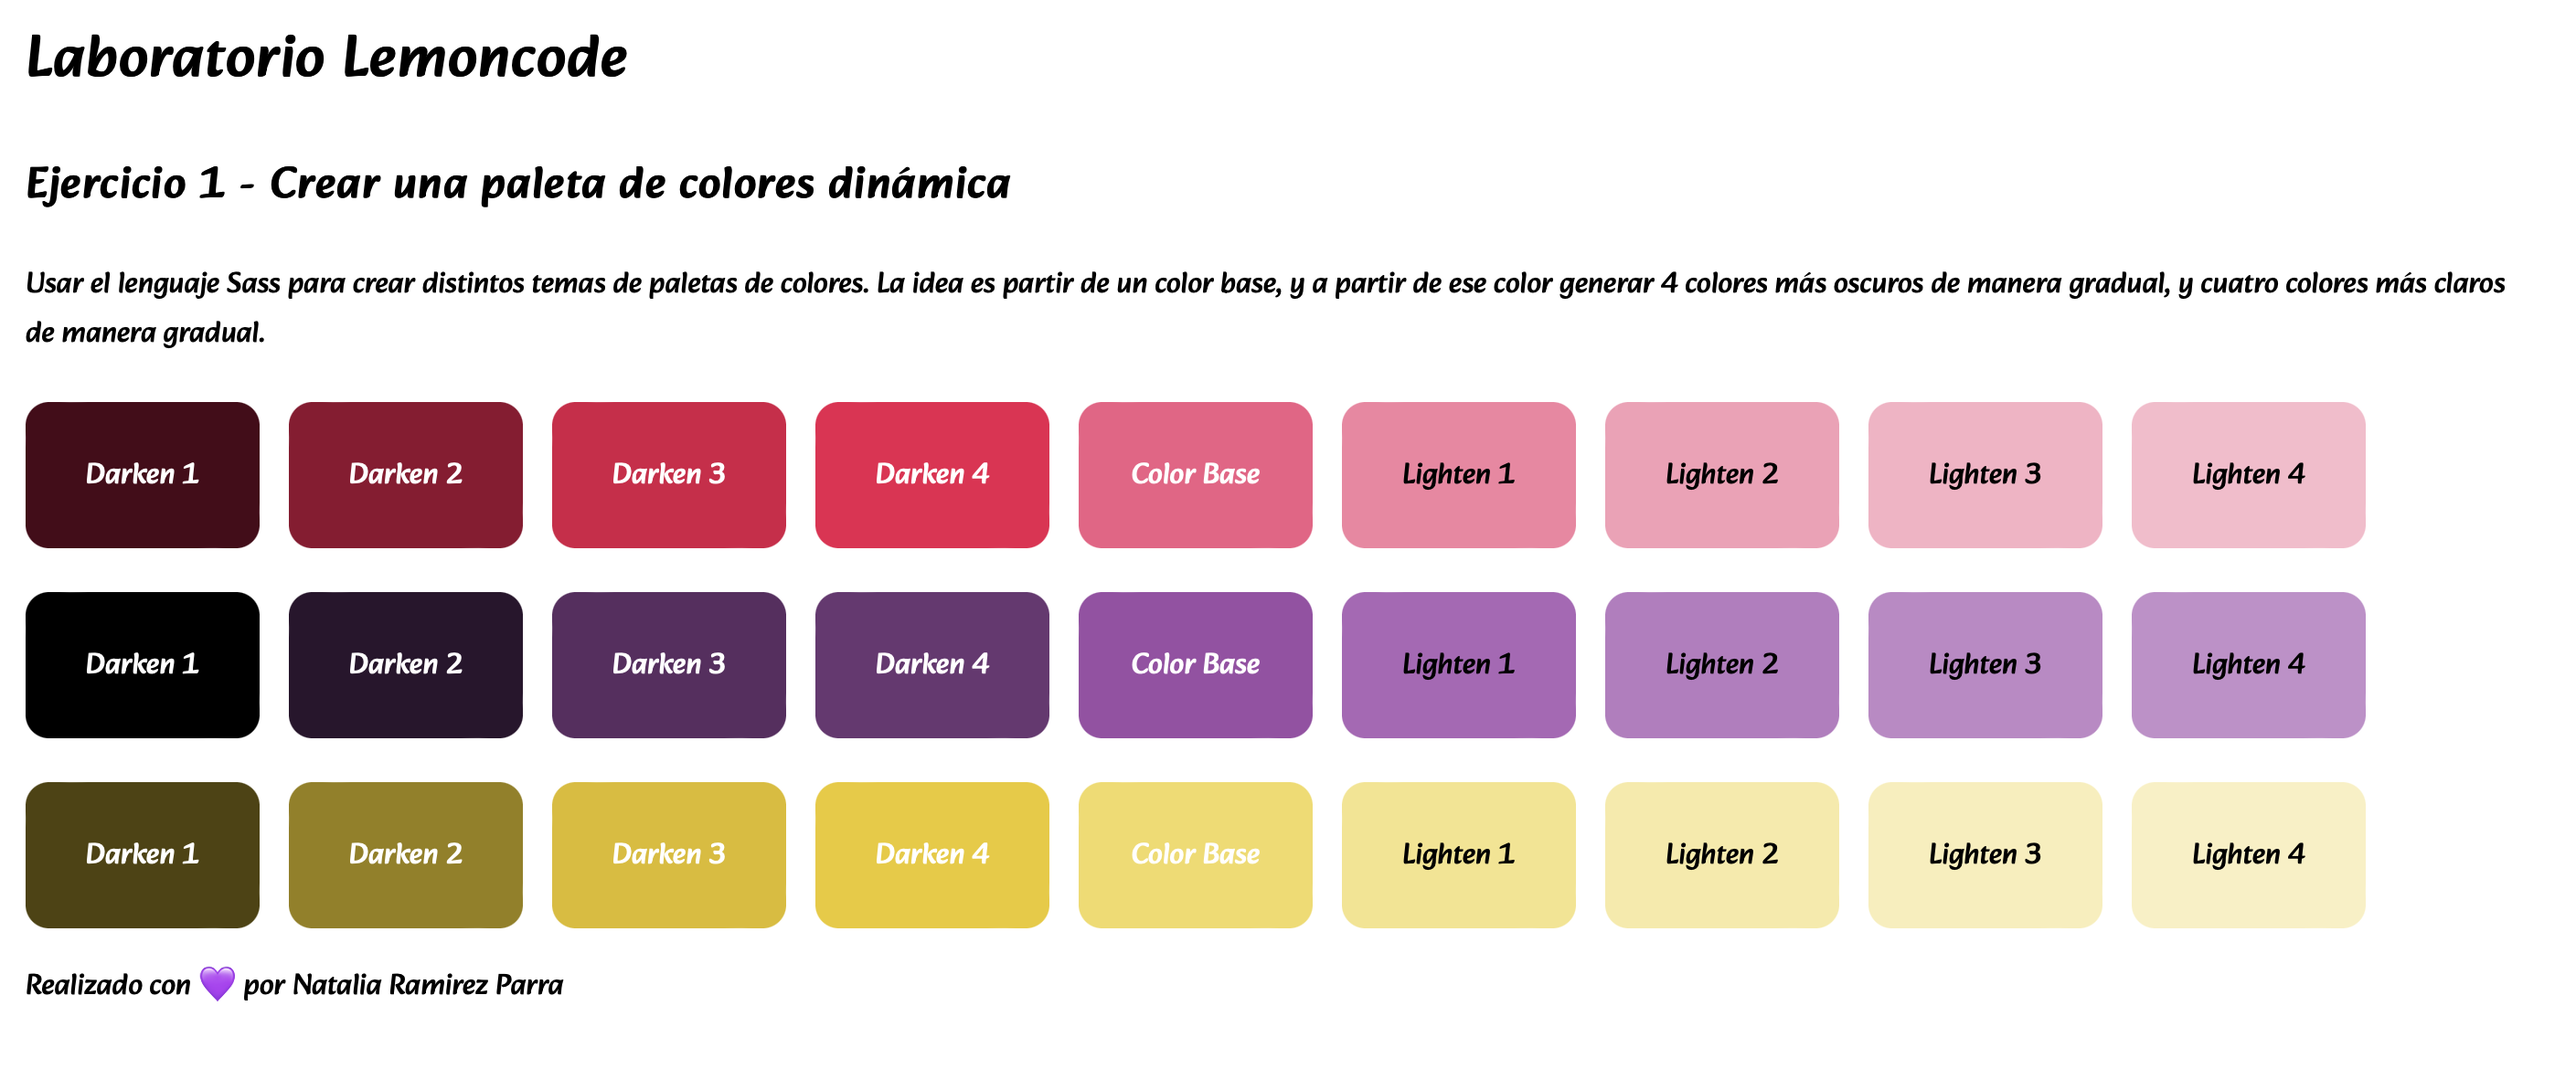
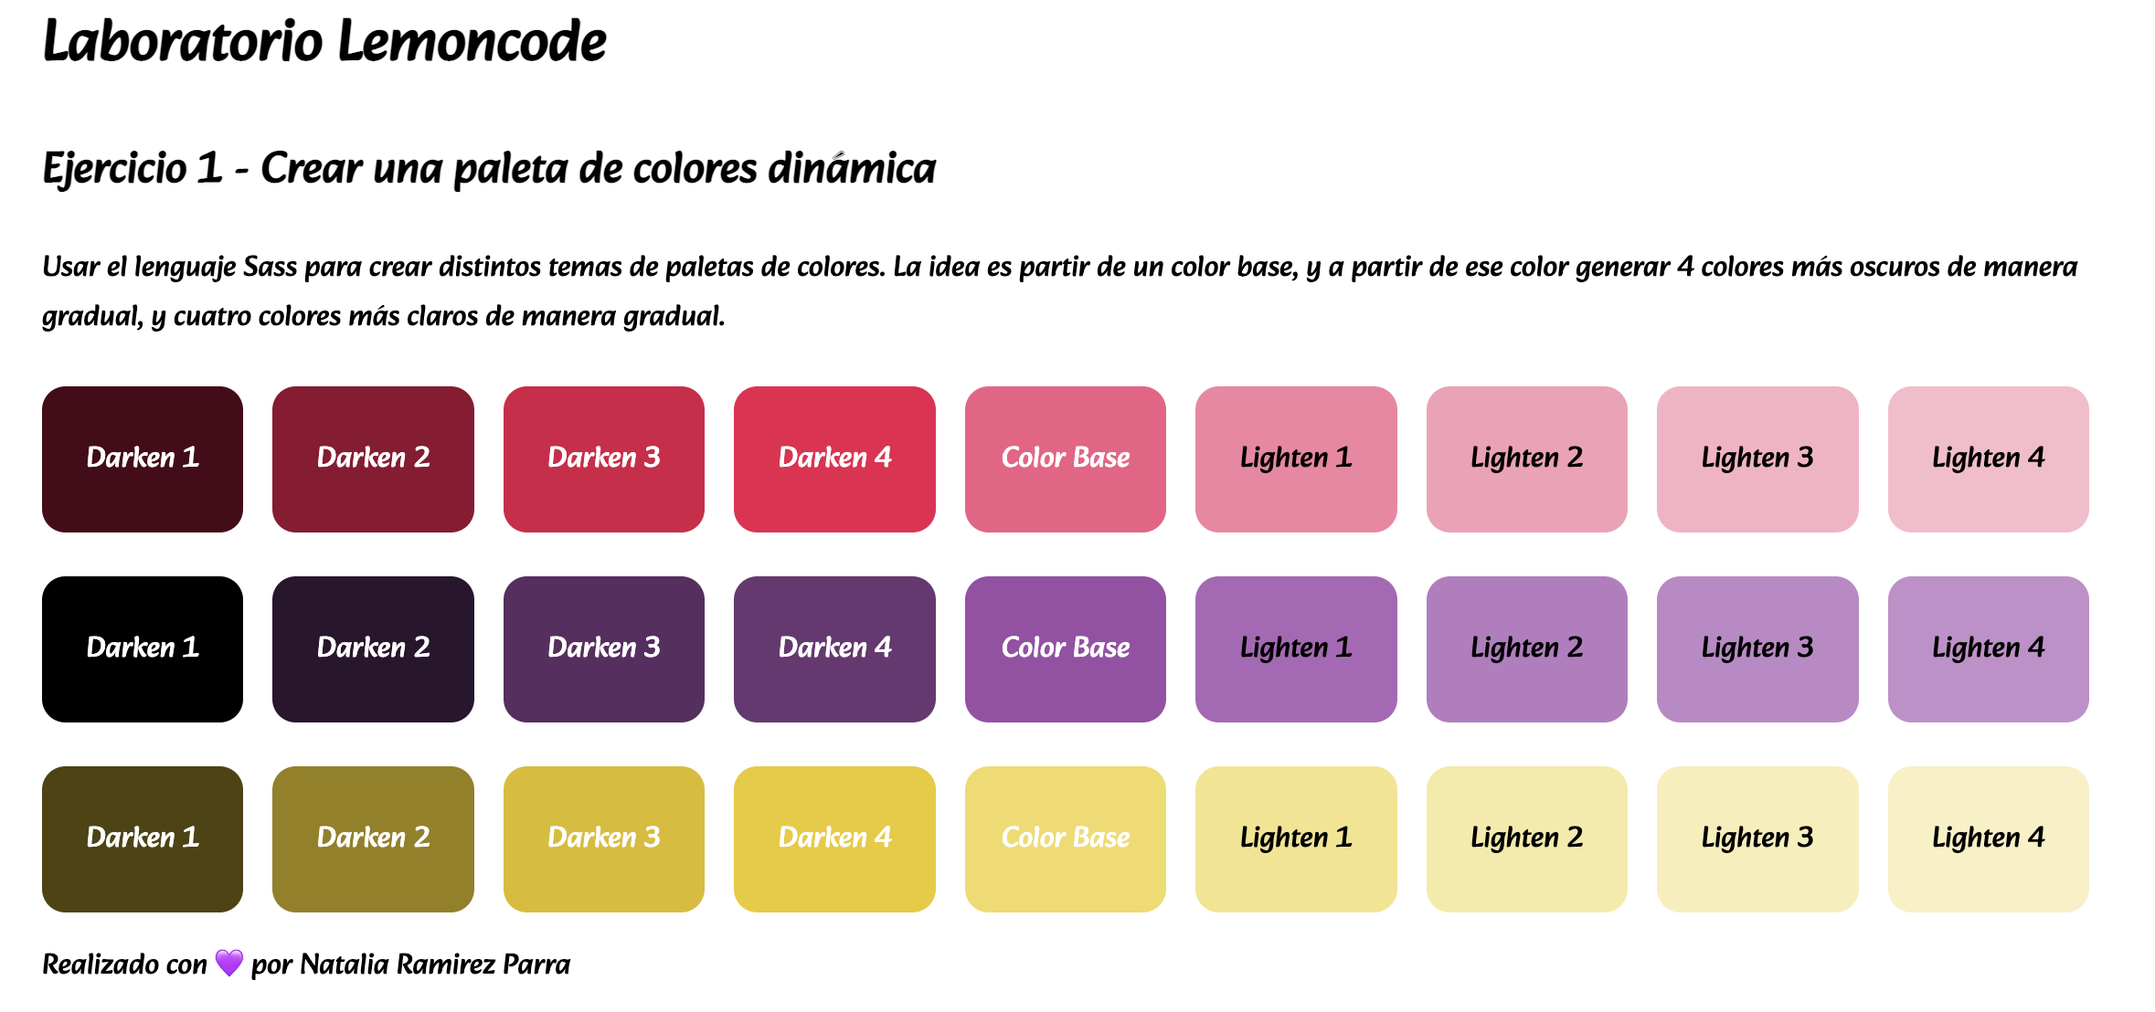
Improve wrapper and order files exercise-2

diff --git a/dist/index.html b/dist/index.html
@@ -5,63 +5,56 @@
     <meta http-equiv="X-UA-Compatible" content="IE=edge">
     <meta name="viewport" content="width=device-width, initial-scale=1.0">
     <title>Laboratorio Natalia Ramirez 👸🏻</title>
-    <link rel="stylesheet" href="/index.af3200df.css">
+    <link rel="stylesheet" href="/index.510b02da.css">
     <link rel="preconnect" href="https://fonts.googleapis.com">
     <link rel="preconnect" href="https://fonts.gstatic.com" crossorigin="">
-    <link href="https://fonts.googleapis.com/css2?family=Alkatra&display=swap" rel="stylesheet">
+    <link href="https://fonts.googleapis.com/css2?family=Poppins:ital@0;1&family=Work+Sans:ital@0;1&display=swap" rel="stylesheet">
+    <link rel="preconnect" href="https://fonts.googleapis.com">
+    <link rel="preconnect" href="https://fonts.gstatic.com" crossorigin="">
+    <link href="https://fonts.googleapis.com/css2?family=Lobster&family=Tajawal&display=swap" rel="stylesheet">
   </head>
-  <body>
+  <body class="wrapper">
     <header>
       <h1>Laboratorio Lemoncode</h1>
     </header>
     <main>
       <section>
-        <h2>Ejercicio 1 - Crear una paleta de colores dinámica</h2>
+        <h2>
+          Ejercicio 2: Crear dos temas distintos y mostrar los resultados en una
+          página.
+        </h2>
         <p>
-          Usar el lenguaje Sass para crear distintos temas de paletas de
-          colores. La idea es partir de un color base, y a partir de ese color
-          generar 4 colores más oscuros de manera gradual, y cuatro colores más
-          claros de manera gradual.
+          Los cambios en el tema afectan a las siguientes características:
+          color, fuente, border radius y shadow box
         </p>
-        <div class="wrapper">
-          <div class="container color_one">
-            <div class="container__box">Darken 1</div>
-            <div class="container__box">Darken 2</div>
-            <div class="container__box">Darken 3</div>
-            <div class="container__box">Darken 4</div>
-            <div class="container__box">Color Base</div>
-            <div class="container__box">Lighten 1</div>
-            <div class="container__box">Lighten 2</div>
-            <div class="container__box">Lighten 3</div>
-            <div class="container__box">Lighten 4</div>
-          </div>
-          <div class="container color_two">
-            <div class="container__box">Darken 1</div>
-            <div class="container__box">Darken 2</div>
-            <div class="container__box">Darken 3</div>
-            <div class="container__box">Darken 4</div>
-            <div class="container__box">Color Base</div>
-            <div class="container__box">Lighten 1</div>
-            <div class="container__box">Lighten 2</div>
-            <div class="container__box">Lighten 3</div>
-            <div class="container__box">Lighten 4</div>
-          </div>
-          <div class="container color_three">
-            <div class="container__box">Darken 1</div>
-            <div class="container__box">Darken 2</div>
-            <div class="container__box">Darken 3</div>
-            <div class="container__box">Darken 4</div>
-            <div class="container__box">Color Base</div>
-            <div class="container__box">Lighten 1</div>
-            <div class="container__box">Lighten 2</div>
-            <div class="container__box">Lighten 3</div>
-            <div class="container__box">Lighten 4</div>
-          </div>
+      </section>
+      <section>
+        <h2>Solución</h2>
+        <div class="wrapper__solution">
+          <article class="container theme__1">
+            <h3>Theme 1</h3>
+            <div class="box base">Base</div>
+            <div class="box important">Important</div>
+            <div class="box warning" "="">Warning</div>
+            <p>Principal font</p>
+            <p class="font-secondary">Secondary font</p>
+            <div class="box box-shadow">Box with shadow</div>
+          </article>
+
+          <article class="container theme__2">
+            <h3>Theme 2</h3>
+            <div class="box base">Base</div>
+            <div class="box important">Important</div>
+            <div class="box warning" "="">Warning</div>
+            <p>Principal font</p>
+            <p class="font-secondary">Secondary font</p>
+            <div class="box box-shadow">Box with shadow</div>
+          </article>
         </div>
       </section>
     </main>
     <footer>
       <p>Realizado con 💜 por Natalia Ramirez Parra</p>
     </footer>
-  <script src="/ejercicio-1.677c026e.js"></script></body>
+  <script src="/ejercicio-2.916806a0.js"></script></body>
 </html>

diff --git a/src/ejercicio-2/sass/index.scss b/src/ejercicio-2/sass/index.scss
@@ -1,33 +1,17 @@
-// Theme 1 
-// - Colors
-$color__primary--theme1   : #8BD9D1;
-$color__important--theme1 : darken($color__primary--theme1, 35%);
-$color__warning--theme1   : lighten($color__primary--theme1, 18%);
-// - Fonts
-$font__principal--theme1  : 'Poppins',
-sans-serif;
-$font__secondary--theme1: 'Work Sans',
-sans-serif;
-// - Border Radius
-$border-radius--theme1: 1em;
-// - Box shadow
-$box-shadow-theme1    : 7px 8px 32px -8px rgba(0, 0, 0, 0.1);
+@import '../../sass/index.scss';
+@import 'theme';
 
-// Theme 2 
-// - Colors
-$color__primary--theme2   : #F25E7A;
-$color__important--theme2 : darken($color__primary--theme2, 35%);
-$color__warning--theme2   : lighten($color__primary--theme2, 18%);
-// - Fonts
-$font__principal--theme2  : 'Lobster',
-cursive;
-$font__secondary--theme2: 'Tajawal',
-sans-serif;
-// - Border Radius
-$border-radius--theme2: 0.5em;
-// - Box shadow
-$box-shadow-theme2    : -7px -8px 40px 8px rgba(255, 143, 148, 0.9);
+body {
+  display: flex;
+  flex-direction: column;
+  justify-content: space-around;
+  align-content: normal;
+  height: 100vh;
+}
 
+h1, h2 {
+  margin: 0.2em 0px;
+}
 
 .wrapper__solution {
   display        : flex;

diff --git a/src/ejercicio-1/index.html b/src/ejercicio-1/index.html
@@ -13,7 +13,7 @@
       rel="stylesheet"
     />
   </head>
-  <body>
+  <body class="wrapper">
     <header>
       <h1>Laboratorio Lemoncode</h1>
     </header>
@@ -26,7 +26,7 @@
           generar 4 colores más oscuros de manera gradual, y cuatro colores más
           claros de manera gradual.
         </p>
-        <div class="wrapper">
+        <div class="wrapper__solution">
           <div class="container color_one">
             <div class="container__box">Darken 1</div>
             <div class="container__box">Darken 2</div>

diff --git a/dist/index.510b02da.css b/dist/index.510b02da.css
@@ -1,3 +1,33 @@
+.wrapper {
+  box-sizing: content-box;
+  margin: 0 25px;
+  padding: 0;
+}
+
+@media (min-width: 768px) {
+  .wrapper {
+    margin: 0 48px;
+  }
+}
+
+@media (min-width: 1280px) {
+  .wrapper {
+    max-width: 1120px;
+    margin: 0 auto;
+  }
+}
+
+body {
+  height: 100vh;
+  flex-direction: column;
+  place-content: normal space-around;
+  display: flex;
+}
+
+h1, h2 {
+  margin: .2em 0;
+}
+
 .wrapper__solution {
   justify-content: space-around;
   display: flex;

diff --git a/dist/index.af3200df.css b/dist/index.af3200df.css
@@ -1,17 +1,17 @@
-* {
+.wrapper {
   box-sizing: content-box;
   margin: 0 25px;
   padding: 0;
 }
 
 @media (min-width: 768px) {
-  * {
+  .wrapper {
     margin: 0 48px;
   }
 }
 
 @media (min-width: 1280px) {
-  * {
+  .wrapper {
     max-width: 1120px;
     margin: 0 auto;
   }
@@ -21,7 +21,7 @@ body {
   font-family: Alkatra, cursive;
 }
 
-.wrapper {
+.wrapper__solution {
   flex-direction: column;
   gap: 1.5rem;
   margin-top: 24px;

diff --git a/src/ejercicio-1/sass/index.scss b/src/ejercicio-1/sass/index.scss
@@ -1,12 +1,12 @@
 @import '../../sass/index.scss';
 @import 'variables';
-@import 'mixim';
+@import 'mixims';
 
 body {
   font-family: 'Alkatra', cursive;
 }
 
-.wrapper {
+.wrapper__solution {
   display       : flex;
   flex-direction: column;
   gap           : 1.5rem;

diff --git a/src/ejercicio-2/index.html b/src/ejercicio-2/index.html
@@ -19,7 +19,7 @@
       rel="stylesheet"
     />
   </head>
-  <body>
+  <body class="wrapper">
     <header>
       <h1>Laboratorio Lemoncode</h1>
     </header>

diff --git a/src/ejercicio-1/sass/_mixims.scss b/src/ejercicio-1/sass/_mixims.scss
@@ -1,4 +1,3 @@
-// Ejercicio 1
 @mixin colorPalette ($color) {
   .container__box {
     background-color: $color;

diff --git a/src/ejercicio-1/sass/_variables.scss b/src/ejercicio-1/sass/_variables.scss
@@ -1,4 +1,3 @@
-// Ejercicio 1
 $colorOne : #F25C84;
 $colorTwo : #9C4EA6;
 $colorThree: #F2DA63;

diff --git a/src/sass/_wrapper.scss b/src/sass/_wrapper.scss
@@ -1,4 +1,4 @@
-* {
+.wrapper {
   box-sizing: content-box;
 
   margin : 0px 25px;

diff --git a/src/sass/index.scss b/src/sass/index.scss
@@ -1,2 +1,2 @@
 @import 'mixins';
-@import 'global';
+@import 'wrapper';
